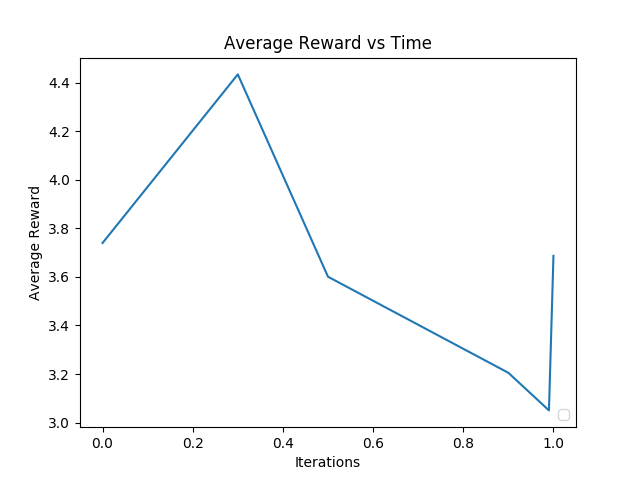
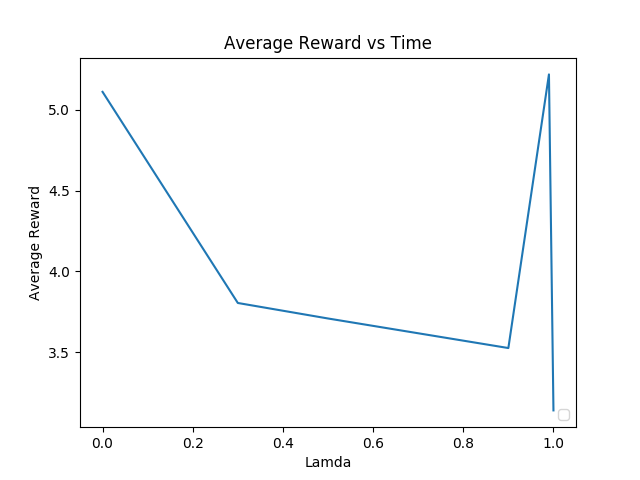
policy grad final

diff --git a/rollout.py b/rollout.py
@@ -4,12 +4,14 @@ import click
 import numpy as np
 import gym
 from gym.envs.registration import register
+import matplotlib.pyplot as plt
 
 
 def chakra_get_action(theta, ob, rng=np.random):
     ob_1 = include_bias(ob)
     mean = theta.dot(ob_1)
-    return (rng.normal(loc=mean, scale=1) - mean) * 0.025
+    action = rng.normal(loc=mean, scale=0.5)
+    return action
 
 
 def get_log_policy(x, y):
@@ -40,11 +42,18 @@ def include_bias(x):
 @click.argument("env_id", type=str, default="chakra")
 def main(env_id):
     # Register the environment
-    register(id='chakra-v0',
-             entry_point='PolicyGradient.policy_gradient:Chakra')
     rng = np.random.RandomState(42)
     if env_id == 'chakra':
+        register(id='chakra-v0',
+                 entry_point='PolicyGradient.policy_gradient:Chakra')
         env = gym.make('chakra-v0')
+        get_action = chakra_get_action
+        obs_dim = env.observation_space.shape[0]
+        action_dim = env.action_space.shape[0]
+    elif env_id == 'vishamC':
+        register(id='vishamC-v0',
+                 entry_point='PolicyGradient.policy_gradient:VishamC')
+        env = gym.make('vishamC-v0')
         get_action = chakra_get_action
         obs_dim = env.observation_space.shape[0]
         action_dim = env.action_space.shape[0]
@@ -54,12 +63,18 @@ def main(env_id):
 
     env.seed(42)
 
+    reward_list = []
+    steps_list = []
     # Initialize parameters
     theta = rng.normal(scale=0.01, size=(action_dim, obs_dim + 1))
-    for itr in range(1):
+    print(theta)
+    for itr in range(750):
         trajectory_count = 50
+        total_reward = 0
+        total_steps = 0
         trajectory_states = []
         trajectory_rewards = []
+        grad = np.zeros(theta.shape)
         for eps in range(trajectory_count):
             print(itr, eps)
             gamma = 1
@@ -76,36 +91,47 @@ def main(env_id):
                 actions.append(action)
                 next_ob, rew, done, _ = env.step(action)
                 ob = next_ob
+                states.append(ob)
                 if abs(ob[0]) > 1 or abs(ob[1]) > 1:
                     ob = env.reset()
-                    rewards.clear()
-                    states.clear()
-                    discounted_reward = 0
-                    gamma = 1
-                env.render(mode='human')
+                    rew = -5
                 rewards.append(rew)
+                # env.render(mode='human')
                 discounted_reward += gamma*rew
                 gamma *= 0.9
-                states.append(ob)
-            grad = np.zeros(theta.shape)
             curr_gamma = 1
-            print(states)
+            total_reward += sum(rewards)
+            total_steps += len(rewards)
             for j in range(len(states)):
                 action = actions[j]
                 state = states[j]
                 reward = rewards[j]
                 mean = theta.dot(include_bias(state))
                 grad_policy = get_policy_gradient(action - mean, include_bias(state))
-                grad_policy = grad_policy / (np.linalg.norm(grad_policy))
-                grad_policy = grad_policy*0.1*curr_gamma*discounted_reward
-                theta += grad_policy
+                grad_policy = grad_policy / (np.linalg.norm(grad_policy) + 1e-8)
+                grad_policy = grad_policy*0.0001*curr_gamma*discounted_reward
+                # theta += grad_policy
+                # grad += grad_policy
+                grad += grad_policy
                 curr_gamma *= 0.9
                 discounted_reward -= reward
                 discounted_reward /= 0.9
-
             trajectory_states.append(states)
             trajectory_rewards.append(rewards)
-            # print("Episode reward: %.2f" % np.sum(rewards))
+        theta += grad / trajectory_count
+        reward_list.append(total_reward / trajectory_count)
+        steps_list.append(total_steps / trajectory_count)
+    fig_rewards = plt.figure().add_subplot(111)
+    fig_steps = plt.figure().add_subplot(111)
+    fig_rewards.set_xlabel('Iterations')
+    fig_rewards.set_ylabel('Average Reward')
+    fig_rewards.plot(range(len(reward_list)), reward_list)
+    print(theta)
+
+    fig_steps.set_xlabel('Iterations')
+    fig_steps.set_ylabel('Average Episode Length')
+    fig_steps.plot(range(len(steps_list)), steps_list)
+    plt.show()
 
 
 if __name__ == "__main__":

diff --git a/PolicyGradient/policy_gradient/vishamC.py b/PolicyGradient/policy_gradient/vishamC.py
@@ -6,7 +6,7 @@ import numpy as np
 import math
 
 
-class vishamC(Env):
+class VishamC(Env):
     metadata = {
         'render.modes': ['human', 'rgb_array'],
         'video.frames_per_second': 50
@@ -31,8 +31,9 @@ class vishamC(Env):
         next_x = self.state[0] + dx
         next_y = self.state[1] + dy
         self.state = np.array([next_x, next_y])
-        reward = 0.5*next_x*next_x + self.gamma*0.5*next_y*next_y
-        return [next_x, next_y], reward, False, {}
+        reward = (-1) * (0.5*next_x*next_x + self.gamma*0.5*next_y*next_y)
+        done = abs(reward) < 0.1
+        return [next_x, next_y], reward, done, {}
         # Return the next state and the reward, along with 2 additional quantities : False, {}
 
     def _reset(self):
@@ -82,8 +83,8 @@ class vishamC(Env):
         return self.viewer.render(return_rgb_array=mode == 'rgb_array')
 
 
-register(
-    'vishamC-v0',
-    entry_point='policyGradient.policy_gradient:vishamC',
-    timestep_limit=40,
-)
+# register(
+#     'vishamC-v0',
+#     entry_point='policyGradient.policy_gradient:vishamC',
+#     timestep_limit=40,
+# )

diff --git a/main.py b/main.py
@@ -5,7 +5,7 @@ import matplotlib.pyplot as plt
 
 n_iters = 3000
 n_episodes = 50
-goal = [6, 7]
+goal = [2, 9]
 reward_list = list()
 step_list = list()
 
@@ -13,7 +13,7 @@ for i in range(n_iters):
     reward_list.append(list())
     step_list.append(list())
 
-env = gym.make('PuddleWorld-v0', goal=goal, algorithm='q', lambda_l=0, wind=False)
+env = gym.make('PuddleWorld-v0', goal=goal, algorithm='q', lambda_l=0, wind=True)
 
 for i in range(n_episodes):
     env.reset()

diff --git a/sarsa_lambda.py b/sarsa_lambda.py
@@ -5,7 +5,7 @@ import matplotlib.pyplot as plt
 
 n_iters = 25
 n_episodes = 50
-goal = [0, 11]
+goal = [2, 9]
 
 
 lambdas = [0, 0.3, 0.5, 0.9, 0.99, 1.0]

diff --git a/PolicyGradient/policy_gradient/__init__.py b/PolicyGradient/policy_gradient/__init__.py
@@ -1,2 +1,2 @@
 from PolicyGradient.policy_gradient.chakra import Chakra
-
+from PolicyGradient.policy_gradient.vishamC import VishamC
